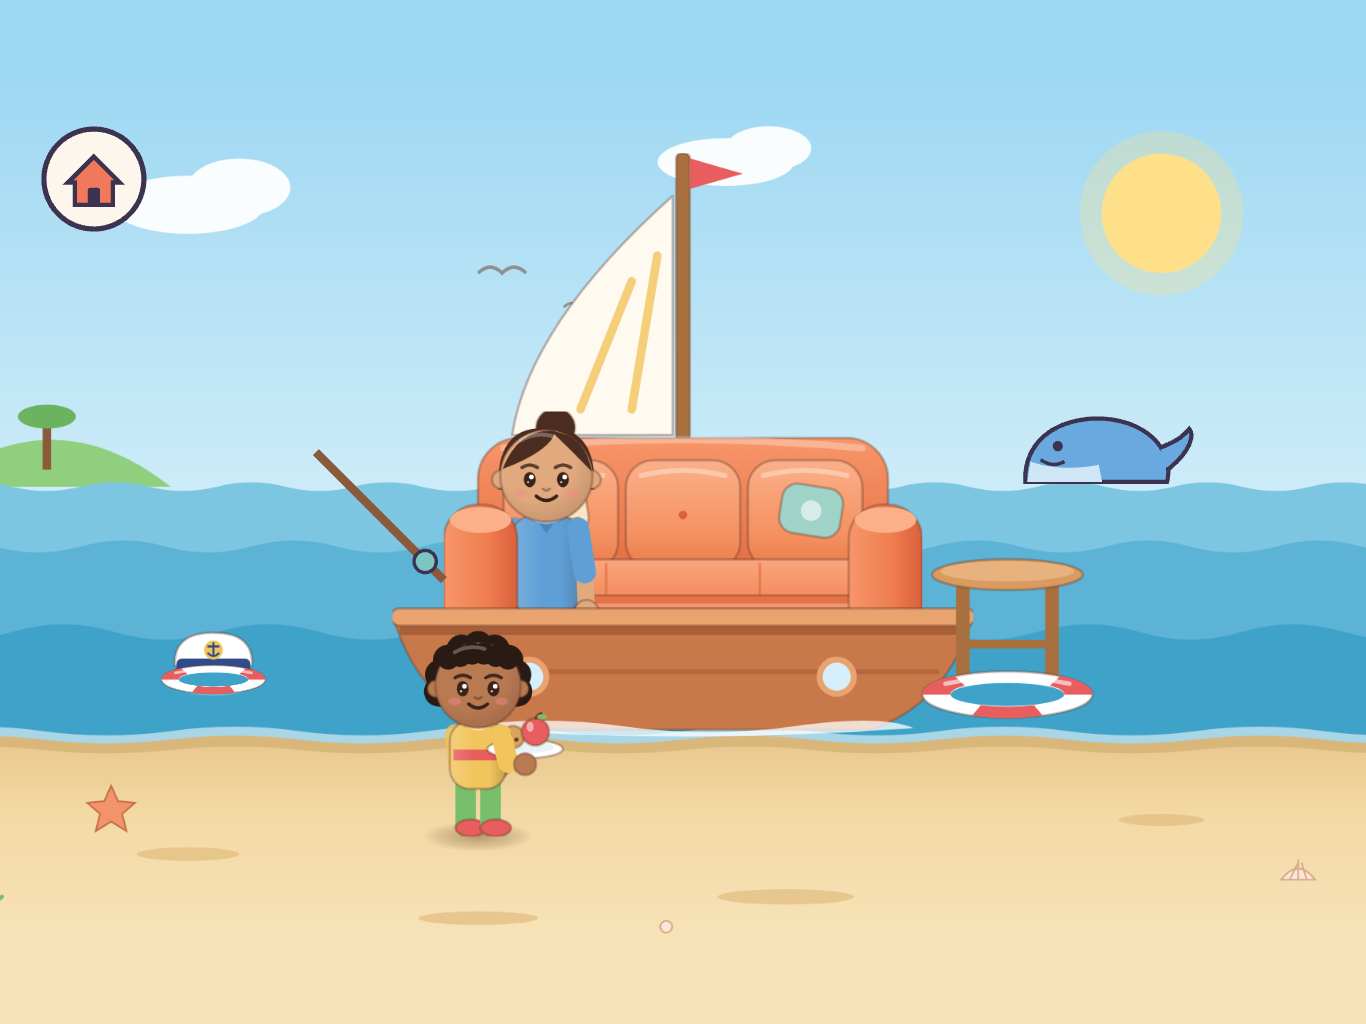
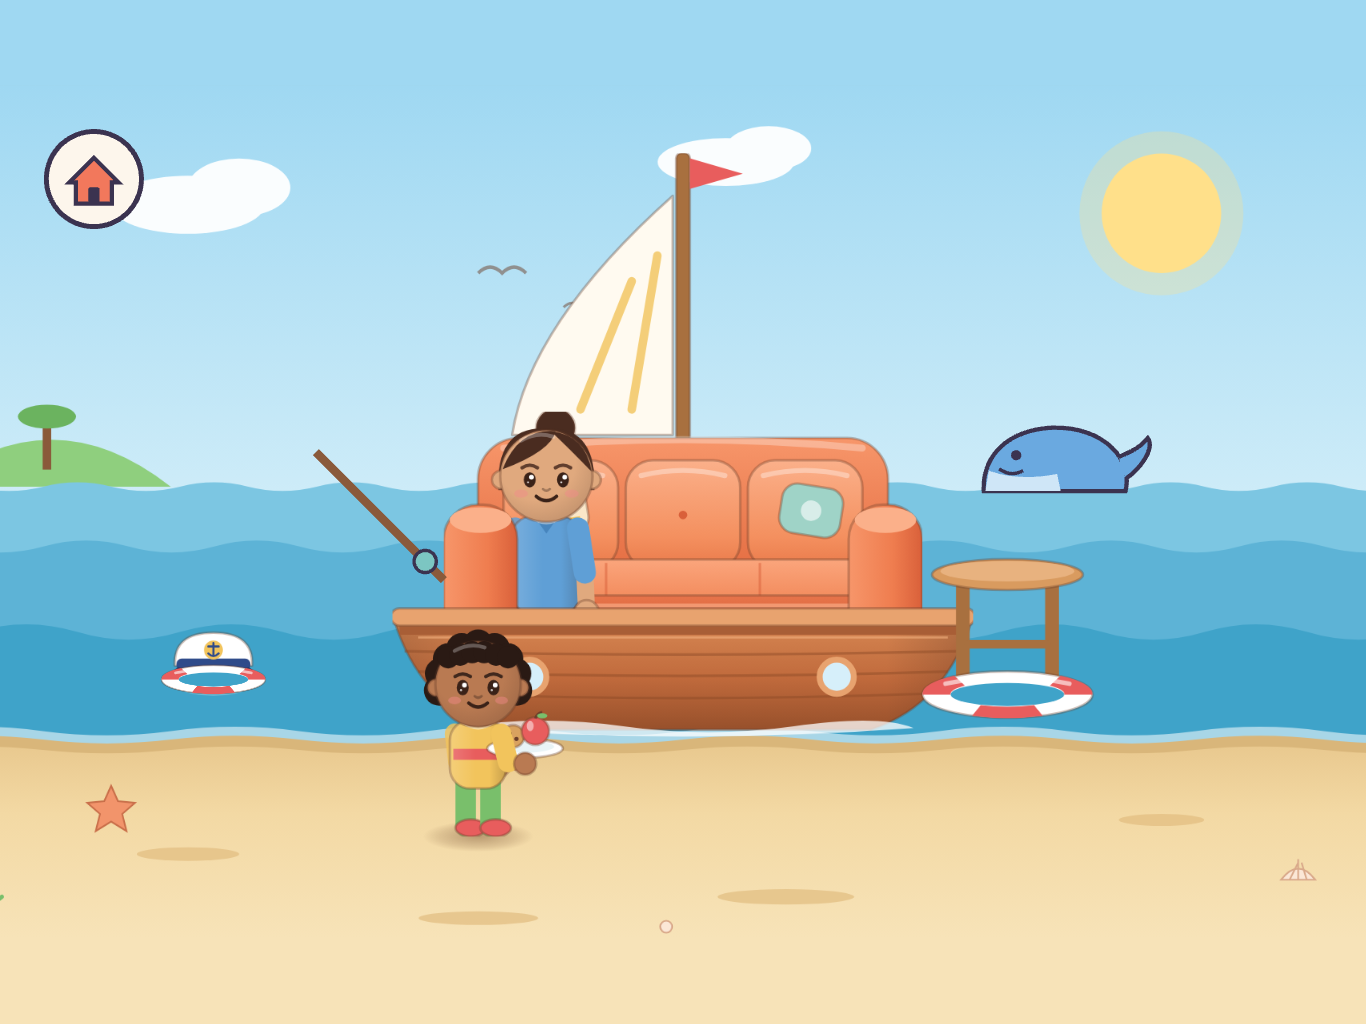
Shade the boat hull and give it planks
Assisted-by: Claude Code:claude-opus-5-5 (Karma42 agent ld-claude-1)

diff --git a/src/art/props.ts b/src/art/props.ts
@@ -118,9 +118,20 @@ export const boatHull: ArtPiece = piece(
   SW + 120,
   SH + 40,
   `
-  <path d="M0 196 L680 196 Q650 300 560 330 L120 330 Q30 300 0 196 Z" fill="#c9784a" ${OUTLINE}/>
+  <defs>
+    <linearGradient id="hull" x1="0" y1="0" x2="0" y2="1">
+      <stop offset="0" stop-color="#d98a55"/><stop offset="0.55" stop-color="#c06a3c"/><stop offset="1" stop-color="#97502b"/>
+    </linearGradient>
+    <linearGradient id="hullside" x1="0" y1="0" x2="1" y2="0">
+      <stop offset="0" stop-color="#2a1a14" stop-opacity="0.18"/><stop offset="0.15" stop-color="#2a1a14" stop-opacity="0"/>
+      <stop offset="0.85" stop-color="#2a1a14" stop-opacity="0"/><stop offset="1" stop-color="#2a1a14" stop-opacity="0.22"/>
+    </linearGradient>
+  </defs>
+  <path d="M0 196 L680 196 Q650 300 560 330 L120 330 Q30 300 0 196 Z" fill="url(#hull)" ${OUTLINE}/>
+  <path d="M0 196 L680 196 Q650 300 560 330 L120 330 Q30 300 0 196 Z" fill="url(#hullside)"/>
   <path d="M8 214 L672 214" stroke="#a85e36" stroke-width="10"/>
-  <path d="M40 262 L640 262" stroke="#a85e36" stroke-width="6" opacity="0.6"/>
+  <path d="M14 238 Q340 246 666 238 M30 262 Q340 272 650 262 M60 288 Q340 298 620 288" stroke="#8a4a26" stroke-width="3" fill="none" opacity="0.45"/>
+  <path d="M30 222 L650 222" stroke="#f2b07e" stroke-width="3" opacity="0.6"/>
   <rect x="-2" y="188" width="684" height="20" rx="10" fill="#e8a36f" ${OUTLINE}/>
   <circle cx="160" cy="268" r="20" fill="#d6effa" stroke="#e8a36f" stroke-width="7"/>
   <circle cx="520" cy="268" r="20" fill="#d6effa" stroke="#e8a36f" stroke-width="7"/>
